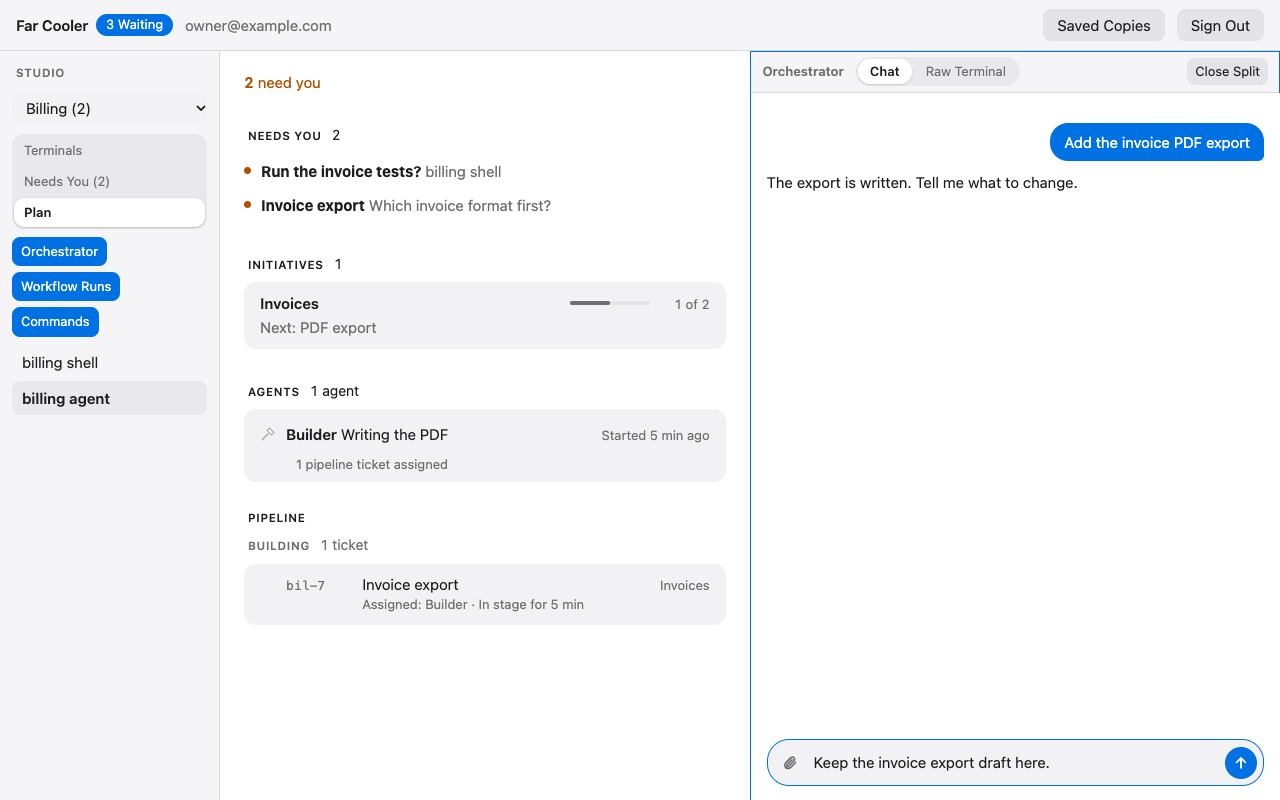
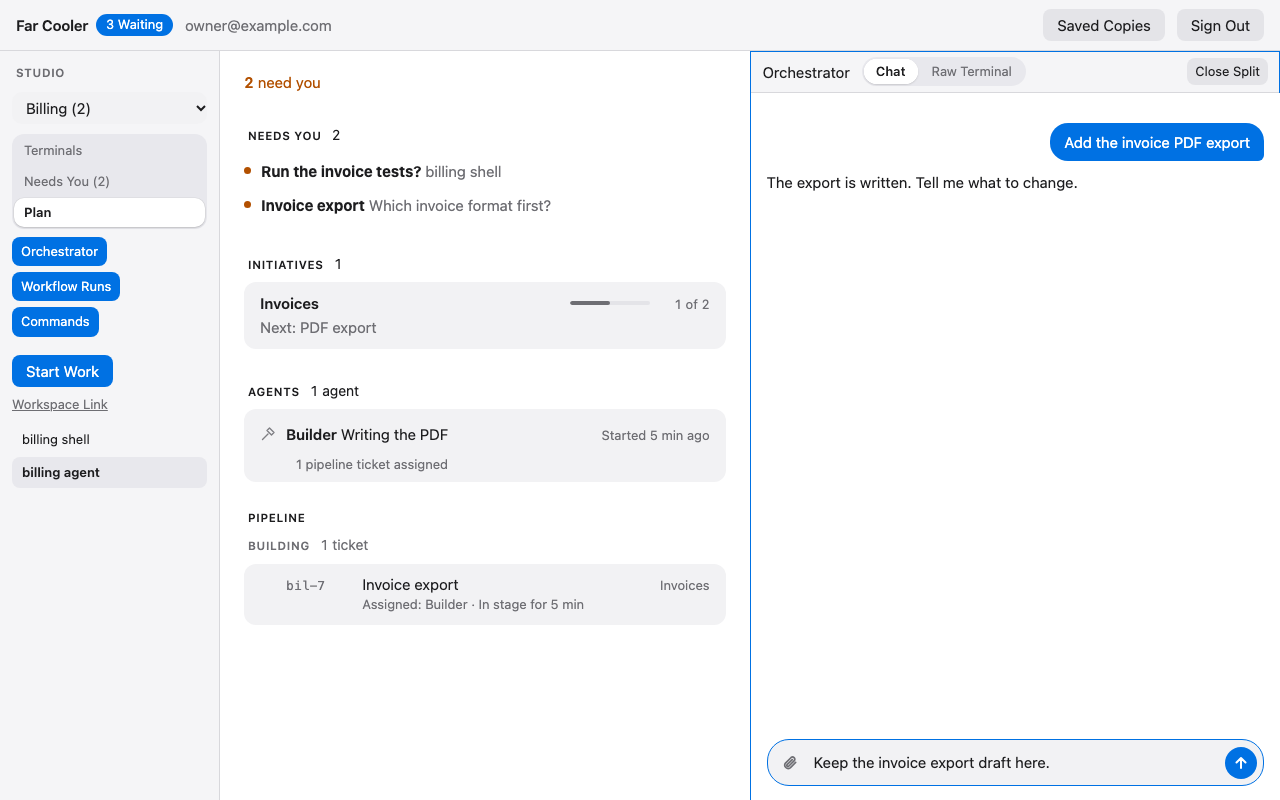
ov-1445 Keep pane focus and work actions stable across navigation
(cherry picked from commit 366253c11d021e7f7515a339056915e9d67fdc88)

Changed region(s): [[0.0, 0.4375, 0.0938, 0.5938], [0.6875, 0.0625, 0.7812, 0.0938], [0.5938, 0.0625, 0.6562, 0.0938]]

diff --git a/services/web/src/client/app.ts b/services/web/src/client/app.ts
@@ -597,7 +597,8 @@ let sheet: DetailSheet | null = null
 /// answer it are the Needs You item's own, while one waits on the person.
 function openCard(runner: string, task: { id: string; key: string; title: string }): void {
   if (fleet?.cardsOf(runner)?.deps?.task && navigation) {
-    navigation.navigate({ ...navigation.route, page: 'ticket', ticket: { runner, ...task } }, true)
+    const { space, tab } = navigation.route
+    navigation.navigate({ space, tab, page: 'ticket', ticket: { runner, ...task } }, true)
   }
 }
 
@@ -740,7 +741,6 @@ function showLink(view: LinkView, label: string): void {
 
 async function connectTo(session: Session, target: Granted): Promise<void> {
   status(`Connecting to ${target.label}…`)
-  let runner: WebRunner
   let screen: ReturnType<typeof mountWork> | undefined
   let mineFleet: Fleet | null = null
   const reconnector = new Reconnector<WebRunner, TunnelConn>({
@@ -769,7 +769,6 @@ async function connectTo(session: Session, target: Granted): Promise<void> {
     // cannot be asked once it is freed.
     setTimeout(() => {
       if (!reconnector.hasLost(from) && reconnector.current === from) {
-        panes?.problem('This terminal’s stream ended. Select it to open it again.', id)
         screen?.streamEnded(id)
       }
     }, 100)
@@ -780,10 +779,18 @@ async function connectTo(session: Session, target: Granted): Promise<void> {
   }, localStorage)
   link = reconnector
   let dialed: TunnelConn | null = null
+  let inventory: string
+  let initial: WorkView
+  const params = new URLSearchParams(location.search)
+  const linkedSpace = params.get('workspace')
+  const linkedTerminal = params.get('terminal') ?? undefined
   try {
-    const conn = await session.tailcat.dial(target.token, session.device.nodePriv)
-    dialed = conn
-    runner = await reconnector.open(conn)
+    dialed = await session.tailcat.dial(target.token, session.device.nodePriv)
+    const runner = await reconnector.open(dialed)
+    inventory = await runner.work_inventory()
+    initial = JSON.parse(workView(inventory, JSON.stringify({
+      workspace: linkedSpace, terminal: linkedTerminal, preferredWorkspace: savedSpace(target.id),
+    })))
   } catch (e) {
     dialed?.close()
     const word = (e as Error).message
@@ -792,24 +799,6 @@ async function connectTo(session: Session, target: Granted): Promise<void> {
         ? { label: 'Add Again', run: () => void addAgain(session) }
         : { label: 'Connect', run: () => void connectTo(session, target) }
     status(`Can’t connect to ${target.label}`, connectFailure(word, target.label), action)
-    return
-  }
-
-  let inventory: string
-  let initial: WorkView
-  const params = new URLSearchParams(location.search)
-  const linkedSpace = params.get('workspace')
-  const linkedTerminal = params.get('terminal') ?? undefined
-  try {
-    inventory = await runner.work_inventory()
-    initial = JSON.parse(workView(inventory, JSON.stringify({
-      workspace: linkedSpace, terminal: linkedTerminal, preferredWorkspace: savedSpace(target.id),
-    })))
-  } catch (e) {
-    status(`Can’t list ${target.label}’s terminals`, connectFailure((e as Error).message, target.label), {
-      label: 'Connect',
-      run: () => void connectTo(session, target),
-    })
     return
   }
 
@@ -824,7 +813,8 @@ async function connectTo(session: Session, target: Granted): Promise<void> {
   spaces = initial.workspaces
   const fallbackSpace = initial.workspace ?? linkedSpace
   chosenSpace = fallbackSpace
-  const scope = `fc-workspace:${JSON.stringify([session.device.account, target.id])}`
+  const workspaceOwner = [session.device.account, target.id]
+  const scope = `fc-workspace:${JSON.stringify(workspaceOwner)}`
   const returning = history.state?.workspaceScope === scope
   const mine = new Fleet(
     drawNeeds,
@@ -1056,7 +1046,8 @@ async function connectTo(session: Session, target: Granted): Promise<void> {
       planTab?.choose(chosenSpace)
     }
     const changedTerminal = route.terminal !== cameFrom?.terminal || route.slot !== cameFrom?.slot
-    pendingTerminal = route.terminal && (changedSpace || changedTerminal) && !(cameFrom === null && returning)
+    const opensPane = route.page === 'terminals' || route.slot === 'side'
+    pendingTerminal = opensPane && route.terminal && (changedSpace || changedTerminal) && !(cameFrom === null && returning)
       ? { id: route.terminal, slot: route.slot ?? 'main' } : undefined
     $('needs').hidden = route.page !== 'needs'
     $('plan').hidden = route.page !== 'plan'
@@ -1079,7 +1070,7 @@ async function connectTo(session: Session, target: Granted): Promise<void> {
     if (scrollPage) restoreScroll(scrollPage)
     if (cameFrom?.page === 'ticket' && route.page !== 'ticket') {
       const task = opener?.task ? `[data-task="${CSS.escape(opener.task)}"]` : null
-      const sameCard = task ? [...document.querySelectorAll<HTMLElement>(`button${task},${task} button`)].find(el => el.getClientRects().length) : null
+      const sameCard = task ? [...document.querySelectorAll<HTMLButtonElement>('button')].find(el => el.closest(task) && el.getClientRects().length) : null
       const back = opener?.element instanceof HTMLElement && opener.element.getClientRects().length ? opener.element : sameCard ?? $(`show-${route.tab}`)
       back.focus({ preventScroll: true })
       opener = null

diff --git a/services/web/src/client/index.html b/services/web/src/client/index.html
@@ -102,24 +102,24 @@
         <p class="link-detail" id="link-detail"></p>
         <button id="link-action" type="button" hidden>Reconnect</button>
       </div>
-        <header class="terminal-manage" id="terminal-manage" hidden>
-          <div class="terminal-identity">
-            <strong id="terminal-name"></strong>
-            <span id="terminal-state"></span>
-            <span class="terminal-access" id="terminal-access"></span>
-          </div>
-          <div class="terminal-actions">
-            <button class="quiet" type="button" id="terminal-rename" hidden></button>
-            <button class="quiet" type="button" id="terminal-close" hidden></button>
-            <button type="button" id="terminal-recover" hidden></button>
-          </div>
-        </header>
       <p class="note" id="work-status" role="status" hidden></p>
       <div class="workspace-panes">
         <section class="workspace-leaf" id="workspace-main" tabindex="0" aria-label="Main pane">
           <div class="needs" id="needs" aria-live="polite" hidden></div>
           <div class="plan" id="plan" hidden></div>
           <div class="pane" id="pane">
+            <header class="terminal-manage" id="terminal-manage" hidden>
+              <div class="terminal-identity">
+                <strong id="terminal-name"></strong>
+                <span id="terminal-state"></span>
+                <span class="terminal-access" id="terminal-access"></span>
+              </div>
+              <div class="terminal-actions">
+                <button class="quiet" type="button" id="terminal-rename" hidden></button>
+                <button class="quiet" type="button" id="terminal-close" hidden></button>
+                <button type="button" id="terminal-recover" hidden></button>
+              </div>
+            </header>
             <p class="note" id="pane-note" hidden></p>
             <div class="pane-bar" id="pane-bar" hidden>
               <span class="pane-title" id="pane-title"></span>

diff --git a/services/web/src/client/work-screen.ts b/services/web/src/client/work-screen.ts
@@ -142,6 +142,7 @@ export function mountWork(options: Options) {
   let openTerminal: string | null = null
   let drawId = 0
   let readId = 0
+  let navigationId = 0
   let busy = false
   let disposed = false
   let replaced: string | undefined
@@ -300,12 +301,18 @@ export function mountWork(options: Options) {
   async function send(intent: Intent): Promise<void> {
     const runner = options.current()
     if (!runner || busy || disposed) return
+    const navigation = navigationId
+    const destination = { workspace: view?.workspace, worktree: view?.worktree }
     lock(true)
     notify('')
     try {
       const id = await runner.work_intent(JSON.stringify(intent))
       if (disposed) return
       if (intent.action === 'close' || intent.action === 'restart') replaced = intent.terminal
+      if (navigation !== navigationId) {
+        await refresh()
+        return
+      }
       switch (intent.action) {
         case 'create':
           selection = { workspace: intent.workspace, repository: intent.repository, worktree: id }
@@ -315,11 +322,11 @@ export function mountWork(options: Options) {
         case 'start':
         case 'restart':
           if (intent.action === 'start') options.started()
-          selection = { workspace: view?.workspace, terminal: id }
+          selection = { workspace: destination.workspace, terminal: id }
           if (dialog.open) dialog.close()
           break
         case 'close':
-          selection = { workspace: view?.workspace, worktree: view?.worktree }
+          selection = destination
           break
       }
       const opensTerminal = intent.action === 'start' || intent.action === 'restart'
@@ -356,6 +363,7 @@ export function mountWork(options: Options) {
     refresh,
     chooseTerminal,
     show(workspace: string | null, terminal?: string) {
+      navigationId++
       if (terminal) ended.delete(terminal)
       selection = { workspace, terminal }
       return project(false)

diff --git a/services/web/src/client/workspace-panes.ts b/services/web/src/client/workspace-panes.ts
@@ -82,7 +82,7 @@ export class WorkspacePanes {
       const mount = this.mounts.get(id)
       if (!mount) continue
       if (this.models.get(id)!.agent !== (mount.pane instanceof AgentPane)) {
-        this.set.discard(id)
+        this.set.forget(id)
         mount.root.remove()
         this.mounts.delete(id)
       } else if (mount.root.parentElement !== this.stage(id)) this.stage(id).append(mount.root)
@@ -123,14 +123,15 @@ export class WorkspacePanes {
   }
 
   async quote(text: string): Promise<boolean> {
-    await this.work
     const id = this.view?.side?.terminal
-    const pane = id ? this.mounts.get(id)?.pane : null
+    await this.work
+    if (!id || this.view?.side?.terminal !== id) return false
+    const pane = this.mounts.get(id)?.pane
     return pane instanceof AgentPane && pane.prefill(text)
   }
 
   forget(id: string): void {
-    this.set.discard(id)
+    this.set.forget(id)
     this.mounts.get(id)?.root.remove()
     this.mounts.delete(id)
   }

diff --git a/services/web/src/client/panes.ts b/services/web/src/client/panes.ts
@@ -105,7 +105,7 @@ export class PaneSet<R> {
     await this.attach(terminal, pane, runner, ended)
   }
 
-  discard(id: string): void {
+  forget(id: string): void {
     this.panes.get(id)?.dispose()
     this.panes.delete(id)
     this.visible = this.visible.filter(visible => visible !== id)
